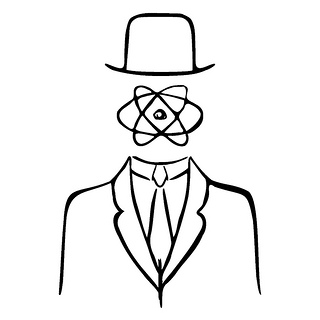
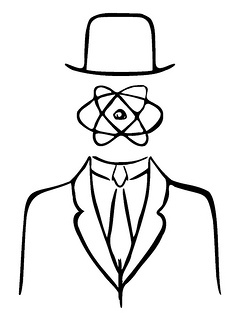
Small fixes:
- errors for person/x
 - image border
 - crop default image

Changed region(s): [[0.0583, 0.0312, 0.9333, 0.9688]]

diff --git a/media/main.css b/media/main.css
@@ -21,3 +21,7 @@ text-align: center;
 float: right;
 margin-right: 1em;
 }
+
+.photo {
+border: 1px solid black;
+}

diff --git a/application/models/lagermodel.php b/application/models/lagermodel.php
@@ -53,9 +53,14 @@ class Lagermodel extends CI_Model {
 
     function get_photo($person_id, $group_id) {
         $this->db->from('attendances')->where(array('person_id' => $person_id, 'group_id' => $group_id));
-        $url = $this->db->get()->row()->image;
+        $default_url = base_url('media/son_of_an_atom.jpg');
+        $row = $this->db->get()->row();
+        if ($row == null)  {
+            return $default_url;
+        }
+        $url = $row->image;
         if ($url == null || strcmp($url, '') == 0) {
-            $url = base_url('media/son_of_an_atom.jpg');
+            return $default_url;
         }
         return $url;
     }

diff --git a/application/views/person.php b/application/views/person.php
@@ -2,12 +2,14 @@
 <h2>
 <?php if ($person_data != null) echo $person_data->name; ?>
 </h2>
+<?php if ($current_group != null) : ?>
 <div class="p">
-<img src="<?php echo $image; ?>" alt="<?php echo $person_data->name; ?>" />
+<img class="photo" src="<?php echo $image; ?>" alt="<?php echo $person_data->name; ?>" />
 <div class="pn"><?php echo $person_data->name; ?>
 <br/>
 <?php echo $current_group->year.', '.$current_group->name; ?>
 </div>
+<?php endif; ?>
 </div>
 <ul>
 <?php $this->load->helper('url');?>

diff --git a/application/views/group.php b/application/views/group.php
@@ -4,7 +4,7 @@
 <?php foreach ($persons as $person):?>
 <div class="p1">
 <a href="<?php echo site_url('lager/person/'.$person->person_id.'/'.$group->group_id); ?>">
-<img src="<?php echo $images[$person->person_id]; ?>" alt="<?php echo $person->name; ?>" />
+<img class="photo" src="<?php echo $images[$person->person_id]; ?>" alt="<?php echo $person->name; ?>" />
 <div class="pn"><?php echo $person->name; ?></div>
 </a>
 </div>
